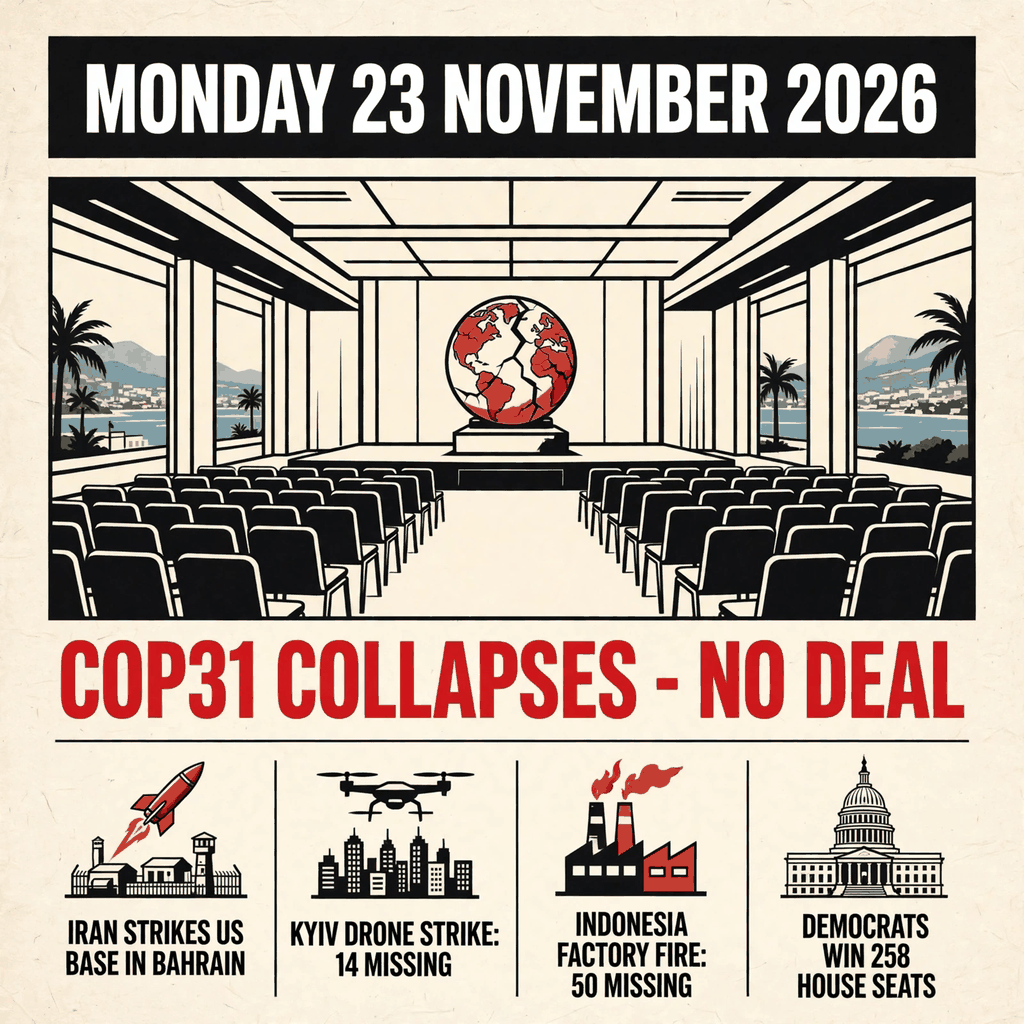
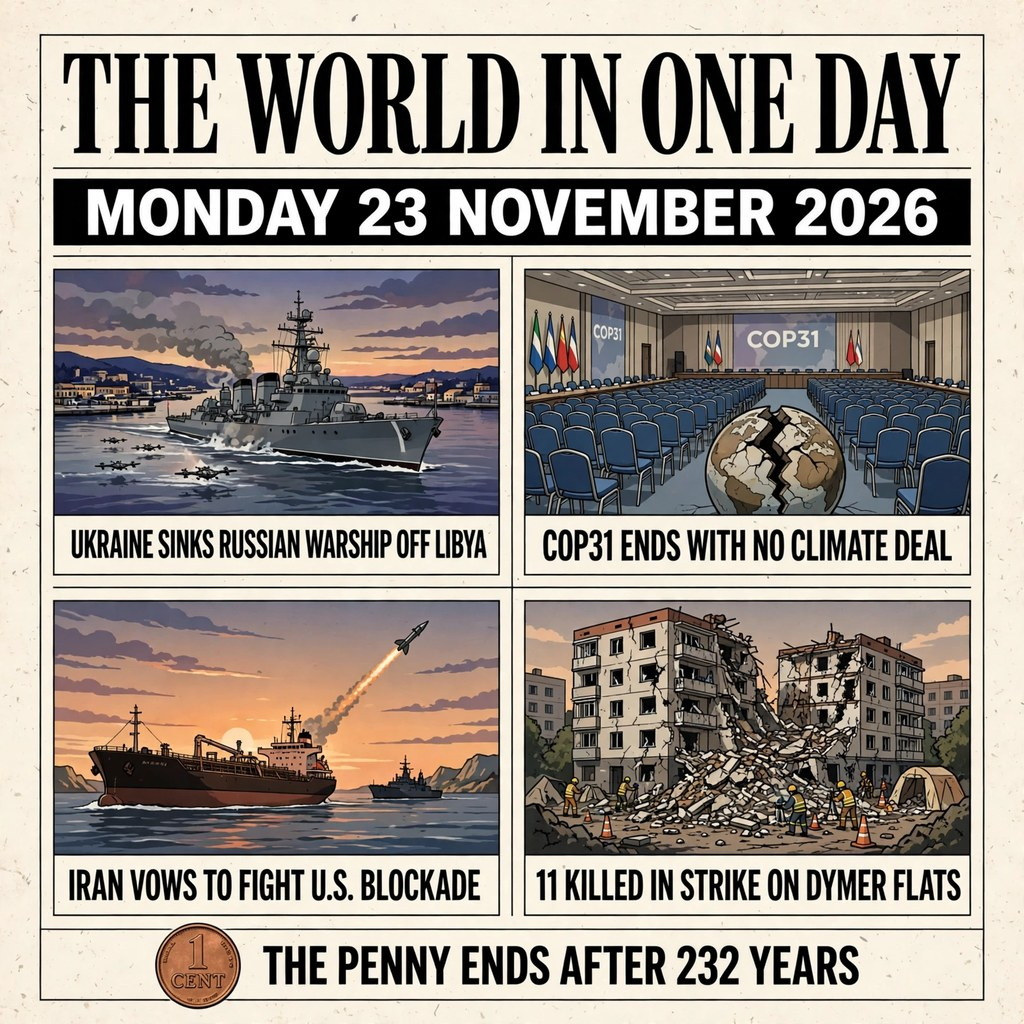
Round 2 entry: The World in One Day

diff --git a/main.ts b/main.ts
@@ -1,16 +1,45 @@
-// news-image-20261123: copy the editorial image to the output directory.
-// The image (entry.png, next to this file) sums up the world news of
-// Monday 23 November 2026. Standard library only, no network.
-import { copyFileSync, existsSync, mkdirSync } from "node:fs";
-import { dirname, join } from "node:path";
-import { fileURLToPath } from "node:url";
+// Round 2 entry for news-image-20261123: "The World in One Day".
+//
+// A newspaper front page that sums up Monday 23 November 2026 in one
+// image: a masthead with the date, four illustrated panels (Ukraine sinks
+// the Russian warship Merkury off Libya, COP31 ends with no climate deal,
+// Iran vows to fight the U.S. blockade, 11 killed in the Dymer strike)
+// and a bottom strip on the end of the U.S. penny after 232 years.
+//
+// The program runs on Node 22, standard library only, with no network.
+// It copies the entry.png shipped beside this file to the output
+// directory and verifies the copy before exiting, so both grader runs
+// write exactly the same bytes.
+//
+// Outside the grader's container, MAKEFUN_OUTPUT_DIR stands in for
+// /output:
+//   mkdir -p out && MAKEFUN_OUTPUT_DIR=out node main.ts
 
-const here = dirname(fileURLToPath(import.meta.url));
-const outDir = process.env.MAKEFUN_OUTPUT_DIR ?? "/output";
-mkdirSync(outDir, { recursive: true });
-const outPath = join(outDir, "entry.png");
-copyFileSync(join(here, "entry.png"), outPath);
-// Fail loudly if the copy did not land, instead of exiting 0 silently.
-if (!existsSync(outPath)) {
-  throw new Error(`entry.png was not written to ${outPath}`);
+import { mkdirSync, readFileSync, statSync, writeFileSync } from 'node:fs';
+import { join } from 'node:path';
+
+const OUTPUT_DIR = process.env.MAKEFUN_OUTPUT_DIR ?? '/output';
+const MAX_BYTES = 1_048_576;
+
+const sourcePath = new URL('./entry.png', import.meta.url);
+const image = readFileSync(sourcePath);
+
+// The gate accepts a PNG or a JPEG, told apart by its first bytes.
+const isPng = image[0] === 0x89 && image[1] === 0x50 && image[2] === 0x4e && image[3] === 0x47;
+const isJpeg = image[0] === 0xff && image[1] === 0xd8 && image[2] === 0xff;
+if (!isPng && !isJpeg) {
+  throw new Error('entry.png is neither a PNG nor a JPEG');
 }
+if (image.length > MAX_BYTES) {
+  throw new Error(`entry.png is ${image.length} bytes, over the 1 MiB cap`);
+}
+
+mkdirSync(OUTPUT_DIR, { recursive: true });
+const targetPath = join(OUTPUT_DIR, 'entry.png');
+writeFileSync(targetPath, image);
+
+const written = statSync(targetPath);
+if (written.size !== image.length) {
+  throw new Error(`wrote ${written.size} bytes, expected ${image.length}`);
+}
+console.log(`wrote ${targetPath} (${written.size} bytes)`);

diff --git a/README.md b/README.md
@@ -1,41 +1,41 @@
-[![make.fun · news-image-20261123](https://make.fun/badge/news-image-20261123.svg)](https://make.fun/bounty/news-image-20261123?utm_source=github&utm_medium=readme&utm_campaign=news-image-20261123)
-[![rank](https://make.fun/badge/news-image-20261123/maelaozera/news-image-20261123/rank.svg)](https://make.fun/bounty/news-image-20261123/leaderboard?utm_source=github&utm_medium=readme&utm_campaign=news-image-20261123)
-[![reward](https://make.fun/badge/news-image-20261123/maelaozera/news-image-20261123/reward.svg)](https://make.fun/bounty/news-image-20261123?utm_source=github&utm_medium=readme&utm_campaign=news-image-20261123)
+[![news-image-20261123](https://make.fun/badge/news-image-20261123.svg)](https://make.fun/bounty/news-image-20261123)
+[![rank](https://make.fun/badge/news-image-20261123/maelaozera/news-image-20261123/rank.svg)](https://make.fun/bounty/news-image-20261123)
+[![reward](https://make.fun/badge/news-image-20261123/maelaozera/news-image-20261123/reward.svg)](https://make.fun/bounty/news-image-20261123)
 
-# News Image — Monday 23 November 2026
+# The World in One Day — 23 November 2026
 
-A make.fun entry for the `news-image-20261123` competition: one image that
-sums up the world news of Monday 23 November 2026.
+Round 2 entry for the make.fun bounty
+[news-image-20261123](https://make.fun/bounty/news-image-20261123)
+("Sum up 23 November's world news in one image", $100).
 
 ## The image
 
-A newspaper front page in flat vector style. The masthead names the day,
-**MONDAY 23 NOVEMBER 2026**, and the lead story is the collapse of COP31 in
-Antalya, Turkey — no deal, with the final draft not even mentioning fossil
-fuels. Four more stories run below it:
+A newspaper front page that sums up **Monday 23 November 2026** in a
+single picture. The masthead names the day; four illustrated panels cover
+the day's most consequential stories across regions and fields; a bottom
+strip carries a fifth, lighter story from the United States.
 
-- **Iran strikes US base in Bahrain** — the Iran–US war widens as Iranian
-  missiles and drones hit a US base in Bahrain, while Houthi missiles are
-  fired at western Saudi Arabia.
-- **Kyiv drone strike: 14 missing** — a Russian drone hits a building in the
-  Kyiv region; at least 14 people are missing.
-- **Indonesia factory fire: 50 missing** — seven body bags found after a
-  factory fire in Indonesia, 50 workers missing.
-- **Democrats win 258 House seats** — Democrats secure at least 258 seats in
-  the US House, their largest majority since 1992.
+| Panel | Story |
+| --- | --- |
+| Top left | Ukraine sinks the Russian warship **Merkury** — sea drones strike the corvette at Benghazi, Libya, and hit the cargo ship MV Angara |
+| Top right | **COP31** in Turkey ends with **no climate deal**, the longest UN climate conference ever |
+| Bottom left | **Iran vows to fight the U.S. blockade** — tankers attacked in the Strait of Hormuz |
+| Bottom right | **11 killed** in a Russian strike on an apartment block in **Dymer**, near Kyiv |
+| Bottom strip | **The penny ends** in America after 232 years — Trump signs the Common Cents Act |
 
-## How to run
+## How it runs
+
+`main.ts` (Node 22, standard library only, no network) copies the
+`entry.png` shipped in this repository to `/output/entry.png` and verifies
+the copy's format (PNG or JPEG) and size (at most 1 MiB) before exiting,
+so both grader runs write exactly the same bytes.
 
 ```sh
 mkdir -p out && MAKEFUN_OUTPUT_DIR=out node main.ts
 ```
 
-`main.ts` (Node 22, standard library only) copies `entry.png` to
-`$MAKEFUN_OUTPUT_DIR/entry.png` (default `/output`). The run is fully
-deterministic: two runs produce byte-identical output.
+The image is 1024x1024 and under 1 MiB.
 
-## Files
+## License
 
-- `main.ts` — the entry program
-- `entry.png` — the image, 1024×1024 PNG, under 1 MiB
-- `LICENSE` — MIT
+MIT — see [LICENSE](LICENSE).
